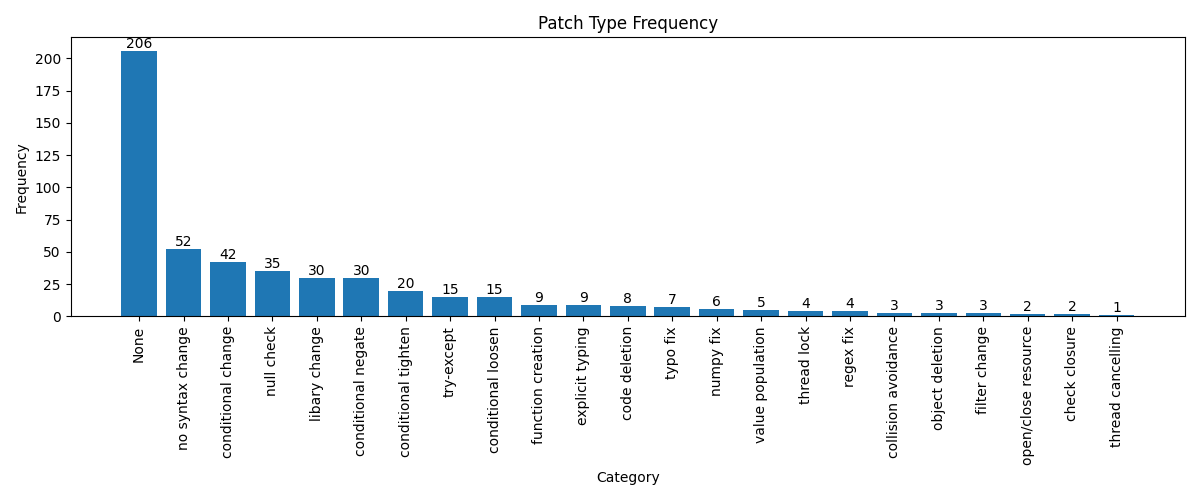
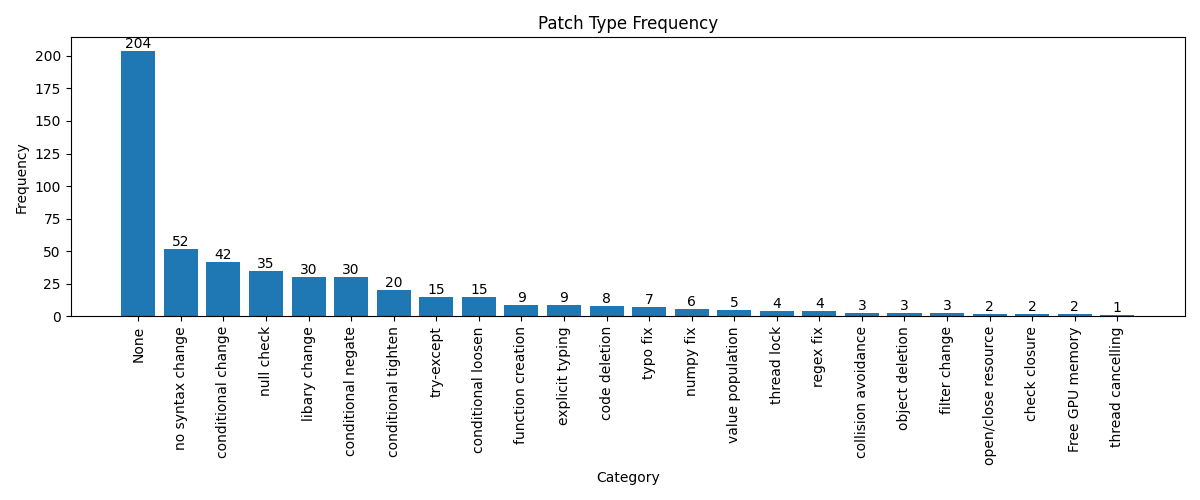
added GPU detach patch type

diff --git a/src/main.py b/src/main.py
@@ -179,6 +179,9 @@ def helper_boolean(token_changes: list[str], commit_msg: str):
 
     if diffs.get("close",0) > 0 or diffs.get("open",0) > 0:
         return "open/close resource"
+    
+    if diffs.get("detach",0) > 0:
+        return "Free GPU memory"
 
     ## try except
     if diffs.get("try",0) > 0 or diffs.get("except",0) > 0:
